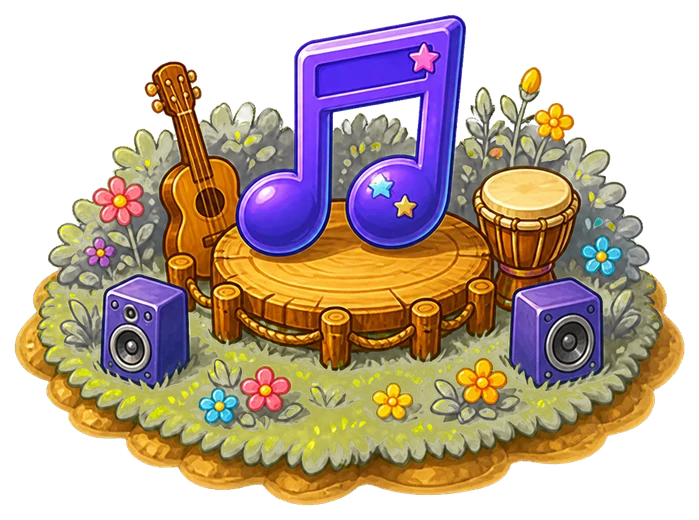
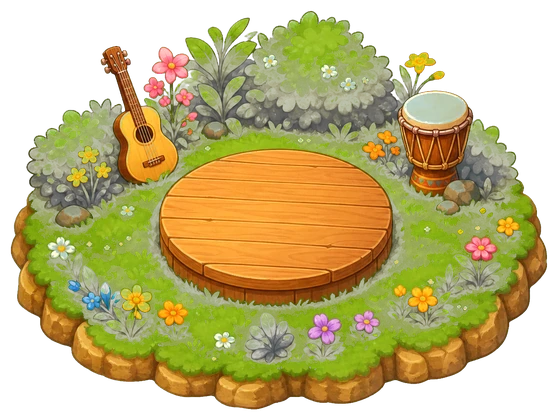
Use two-layer music island artwork

diff --git a/index.html b/index.html
@@ -203,51 +203,21 @@
       animation-duration: 3.2s;
     }
 
-    #summer-checkin-app .music-note-dancer,
-    #summer-checkin-app .music-speaker {
+    #summer-checkin-app .music-foreground {
       position: absolute;
       z-index: 4;
+      left: 53.8%;
+      top: 33.8%;
+      width: 13.6%;
+      aspect-ratio: 420 / 285;
       pointer-events: none;
       transform-origin: 50% 70%;
+      animation: music-foreground-dance 1.05s ease-in-out infinite;
+      filter: drop-shadow(0 4px 4px color-mix(in srgb, var(--foreground) 22%, transparent));
       will-change: transform, filter;
     }
 
-    #summer-checkin-app .music-note-dancer {
-      left: 53.8%;
-      top: 36.2%;
-      width: 8.8%;
-      aspect-ratio: 1;
-      display: grid;
-      place-items: center;
-      color: #7a3ff2;
-      font-size: clamp(34px, 5vw, 78px);
-      font-weight: 800;
-      text-shadow:
-        0 2px 0 #f6d8ff,
-        0 5px 8px color-mix(in srgb, var(--foreground) 22%, transparent);
-      animation: music-note-dance 1.05s ease-in-out infinite;
-    }
-
-    #summer-checkin-app .music-speaker {
-      width: 4.1%;
-      aspect-ratio: 109 / 145;
-      filter: drop-shadow(0 3px 3px color-mix(in srgb, var(--foreground) 18%, transparent));
-      animation: speaker-bounce .56s ease-in-out infinite alternate;
-    }
-
-    #summer-checkin-app .music-speaker.left {
-      left: 48.3%;
-      top: 41.8%;
-      animation-name: speaker-pulse-left;
-    }
-
-    #summer-checkin-app .music-speaker.right {
-      left: 58.8%;
-      top: 42%;
-      animation-name: speaker-pulse-right;
-    }
-
-    #summer-checkin-app .music-speaker img {
+    #summer-checkin-app .music-foreground img {
       display: block;
       width: 100%;
       height: 100%;
@@ -649,20 +619,10 @@
       100% { transform: rotate(2.7deg) translate(2px, 1px); }
     }
 
-    @keyframes music-note-dance {
-      0%, 100% { transform: translate(-50%, -50%) rotate(-5deg) scale(1); }
-      35% { transform: translate(-50%, -63%) rotate(7deg) scale(1.12); }
-      62% { transform: translate(-50%, -48%) rotate(-2deg) scale(.96); }
-    }
-
-    @keyframes speaker-pulse-left {
-      0% { transform: translate(-50%, -50%) rotate(-3deg) scale(1); }
-      100% { transform: translate(-58%, -53%) rotate(-7deg) scale(1.14, 1.08); }
-    }
-
-    @keyframes speaker-pulse-right {
-      0% { transform: translate(-50%, -50%) rotate(3deg) scale(1); }
-      100% { transform: translate(-42%, -53%) rotate(7deg) scale(1.14, 1.08); }
+    @keyframes music-foreground-dance {
+      0%, 100% { transform: translate(-50%, -50%) rotate(-2deg) scale(1); }
+      34% { transform: translate(-50%, -58%) rotate(4deg) scale(1.07); }
+      62% { transform: translate(-50%, -48%) rotate(-1deg) scale(.98); }
     }
 
     @media (max-width: 1050px) {
@@ -731,8 +691,7 @@
       #summer-checkin-app .star-pop::before,
       #summer-checkin-app .star-pop::after { animation-duration: .01ms; }
       #summer-checkin-app .wobble-piece,
-      #summer-checkin-app .music-note-dancer,
-      #summer-checkin-app .music-speaker { animation: none; }
+      #summer-checkin-app .music-foreground { animation: none; }
     }
   </style>
 
@@ -761,11 +720,9 @@
       <span class="wobble-piece" style="--left:68%;--top:34%;--width:32%;--height:42%;--duration:2.7s;--delay:-2.6s"><img src="assets/wobble-thinking.webp" alt="" aria-hidden="true"></span>
       <span class="wobble-piece" style="--left:28%;--top:62%;--width:34%;--height:38%;--duration:2.95s;--delay:-1.9s"><img src="assets/wobble-fun.webp" alt="" aria-hidden="true"></span>
       <span class="wobble-piece" style="--left:67%;--top:64%;--width:33%;--height:36%;--duration:2.68s;--delay:-.7s"><img src="assets/wobble-finish.webp" alt="" aria-hidden="true"></span>
-      <span class="wobble-piece music" style="--left:43%;--top:25%;--width:21%;--height:27%;--duration:2.4s;--delay:-1.1s"><img src="assets/wobble-music.webp" alt="" aria-hidden="true"></span>
-      <span class="wobble-piece mystery" style="--left:5%;--top:31%;--width:15%;--height:16%;--duration:3.2s;--delay:-.8s"><img src="assets/wobble-mystery.webp" alt="" aria-hidden="true"></span>
-      <span class="music-note-dancer" aria-hidden="true">♪</span>
-      <span class="music-speaker left" aria-hidden="true"><img src="assets/music-speaker-left.webp" alt=""></span>
-      <span class="music-speaker right" aria-hidden="true"><img src="assets/music-speaker-right.webp" alt=""></span>
+      <span class="wobble-piece music" style="--left:44.9%;--top:27.7%;--width:17.2%;--height:21.6%;--duration:2.4s;--delay:-1.1s"><img src="assets/wobble-music.webp" alt="" aria-hidden="true"></span>
+      <span class="wobble-piece mystery" style="--left:2%;--top:38%;--width:15%;--height:16%;--duration:3.2s;--delay:-.8s"><img src="assets/wobble-mystery.webp" alt="" aria-hidden="true"></span>
+      <span class="music-foreground" aria-hidden="true"><img src="assets/music-foreground.webp" alt=""></span>
 
       <button class="scenery-hotspot" style="--x:6%;--y:10%;--w:10%;--h:15%" data-scene="sun" aria-label="点击太阳，听一句英文夸奖"></button>
       <button class="scenery-hotspot" style="--x:18%;--y:12%;--w:9%;--h:9%" data-scene="seagull" aria-label="点击海鸥，播放海鸥叫声"></button>
@@ -774,8 +731,8 @@
       <button class="scenery-hotspot" style="--x:94%;--y:40%;--w:9%;--h:13%" data-scene="dolphin" aria-label="点击海豚，播放海豚叫声"></button>
       <button class="scenery-hotspot" style="--x:23%;--y:87%;--w:10%;--h:12%" data-scene="dolphin" aria-label="点击海豚，播放海豚叫声"></button>
       <button class="scenery-hotspot" style="--x:94%;--y:70%;--w:11%;--h:17%" data-scene="fireworks" aria-label="点击烟花，播放烟花爆炸声"></button>
-      <button class="scenery-hotspot music-hotspot" style="--x:53.5%;--y:38%;--w:17%;--h:20%" data-music-control aria-label="点击音乐岛，播放或切换背景音乐"></button>
-      <button class="scenery-hotspot" style="--x:12.5%;--y:39%;--w:12%;--h:12%" data-mystery-bonus aria-label="点击神秘岛，获得一次彩蛋打卡"></button>
+      <button class="scenery-hotspot music-hotspot" style="--x:53.5%;--y:38%;--w:14%;--h:17%" data-music-control aria-label="点击音乐岛，播放或切换背景音乐"></button>
+      <button class="scenery-hotspot" style="--x:9.5%;--y:46%;--w:12%;--h:12%" data-mystery-bonus aria-label="点击神秘岛，获得一次彩蛋打卡"></button>
 
       <button class="hotspot" style="--x:34%;--y:18%" data-task="sport" aria-label="体育打卡，运动岛前进一步"></button>
       <button class="hotspot" style="--x:59%;--y:18%" data-task="english" aria-label="英语打卡，英语湾前进一步"></button>

diff --git a/src/summer-adventure-checkin.html b/src/summer-adventure-checkin.html
@@ -114,51 +114,21 @@
       animation-duration: 3.2s;
     }
 
-    #summer-checkin-app .music-note-dancer,
-    #summer-checkin-app .music-speaker {
+    #summer-checkin-app .music-foreground {
       position: absolute;
       z-index: 4;
+      left: 53.8%;
+      top: 33.8%;
+      width: 13.6%;
+      aspect-ratio: 420 / 285;
       pointer-events: none;
       transform-origin: 50% 70%;
+      animation: music-foreground-dance 1.05s ease-in-out infinite;
+      filter: drop-shadow(0 4px 4px color-mix(in srgb, var(--foreground) 22%, transparent));
       will-change: transform, filter;
     }
 
-    #summer-checkin-app .music-note-dancer {
-      left: 53.8%;
-      top: 36.2%;
-      width: 8.8%;
-      aspect-ratio: 1;
-      display: grid;
-      place-items: center;
-      color: #7a3ff2;
-      font-size: clamp(34px, 5vw, 78px);
-      font-weight: 800;
-      text-shadow:
-        0 2px 0 #f6d8ff,
-        0 5px 8px color-mix(in srgb, var(--foreground) 22%, transparent);
-      animation: music-note-dance 1.05s ease-in-out infinite;
-    }
-
-    #summer-checkin-app .music-speaker {
-      width: 4.1%;
-      aspect-ratio: 109 / 145;
-      filter: drop-shadow(0 3px 3px color-mix(in srgb, var(--foreground) 18%, transparent));
-      animation: speaker-bounce .56s ease-in-out infinite alternate;
-    }
-
-    #summer-checkin-app .music-speaker.left {
-      left: 48.3%;
-      top: 41.8%;
-      animation-name: speaker-pulse-left;
-    }
-
-    #summer-checkin-app .music-speaker.right {
-      left: 58.8%;
-      top: 42%;
-      animation-name: speaker-pulse-right;
-    }
-
-    #summer-checkin-app .music-speaker img {
+    #summer-checkin-app .music-foreground img {
       display: block;
       width: 100%;
       height: 100%;
@@ -560,20 +530,10 @@
       100% { transform: rotate(2.7deg) translate(2px, 1px); }
     }
 
-    @keyframes music-note-dance {
-      0%, 100% { transform: translate(-50%, -50%) rotate(-5deg) scale(1); }
-      35% { transform: translate(-50%, -63%) rotate(7deg) scale(1.12); }
-      62% { transform: translate(-50%, -48%) rotate(-2deg) scale(.96); }
-    }
-
-    @keyframes speaker-pulse-left {
-      0% { transform: translate(-50%, -50%) rotate(-3deg) scale(1); }
-      100% { transform: translate(-58%, -53%) rotate(-7deg) scale(1.14, 1.08); }
-    }
-
-    @keyframes speaker-pulse-right {
-      0% { transform: translate(-50%, -50%) rotate(3deg) scale(1); }
-      100% { transform: translate(-42%, -53%) rotate(7deg) scale(1.14, 1.08); }
+    @keyframes music-foreground-dance {
+      0%, 100% { transform: translate(-50%, -50%) rotate(-2deg) scale(1); }
+      34% { transform: translate(-50%, -58%) rotate(4deg) scale(1.07); }
+      62% { transform: translate(-50%, -48%) rotate(-1deg) scale(.98); }
     }
 
     @media (max-width: 1050px) {
@@ -642,8 +602,7 @@
       #summer-checkin-app .star-pop::before,
       #summer-checkin-app .star-pop::after { animation-duration: .01ms; }
       #summer-checkin-app .wobble-piece,
-      #summer-checkin-app .music-note-dancer,
-      #summer-checkin-app .music-speaker { animation: none; }
+      #summer-checkin-app .music-foreground { animation: none; }
     }
   </style>
 
@@ -672,11 +631,9 @@
       <span class="wobble-piece" style="--left:68%;--top:34%;--width:32%;--height:42%;--duration:2.7s;--delay:-2.6s"><img src="assets/wobble-thinking.webp" alt="" aria-hidden="true"></span>
       <span class="wobble-piece" style="--left:28%;--top:62%;--width:34%;--height:38%;--duration:2.95s;--delay:-1.9s"><img src="assets/wobble-fun.webp" alt="" aria-hidden="true"></span>
       <span class="wobble-piece" style="--left:67%;--top:64%;--width:33%;--height:36%;--duration:2.68s;--delay:-.7s"><img src="assets/wobble-finish.webp" alt="" aria-hidden="true"></span>
-      <span class="wobble-piece music" style="--left:43%;--top:25%;--width:21%;--height:27%;--duration:2.4s;--delay:-1.1s"><img src="assets/wobble-music.webp" alt="" aria-hidden="true"></span>
-      <span class="wobble-piece mystery" style="--left:5%;--top:31%;--width:15%;--height:16%;--duration:3.2s;--delay:-.8s"><img src="assets/wobble-mystery.webp" alt="" aria-hidden="true"></span>
-      <span class="music-note-dancer" aria-hidden="true">♪</span>
-      <span class="music-speaker left" aria-hidden="true"><img src="assets/music-speaker-left.webp" alt=""></span>
-      <span class="music-speaker right" aria-hidden="true"><img src="assets/music-speaker-right.webp" alt=""></span>
+      <span class="wobble-piece music" style="--left:44.9%;--top:27.7%;--width:17.2%;--height:21.6%;--duration:2.4s;--delay:-1.1s"><img src="assets/wobble-music.webp" alt="" aria-hidden="true"></span>
+      <span class="wobble-piece mystery" style="--left:2%;--top:38%;--width:15%;--height:16%;--duration:3.2s;--delay:-.8s"><img src="assets/wobble-mystery.webp" alt="" aria-hidden="true"></span>
+      <span class="music-foreground" aria-hidden="true"><img src="assets/music-foreground.webp" alt=""></span>
 
       <button class="scenery-hotspot" style="--x:6%;--y:10%;--w:10%;--h:15%" data-scene="sun" aria-label="点击太阳，听一句英文夸奖"></button>
       <button class="scenery-hotspot" style="--x:18%;--y:12%;--w:9%;--h:9%" data-scene="seagull" aria-label="点击海鸥，播放海鸥叫声"></button>
@@ -685,8 +642,8 @@
       <button class="scenery-hotspot" style="--x:94%;--y:40%;--w:9%;--h:13%" data-scene="dolphin" aria-label="点击海豚，播放海豚叫声"></button>
       <button class="scenery-hotspot" style="--x:23%;--y:87%;--w:10%;--h:12%" data-scene="dolphin" aria-label="点击海豚，播放海豚叫声"></button>
       <button class="scenery-hotspot" style="--x:94%;--y:70%;--w:11%;--h:17%" data-scene="fireworks" aria-label="点击烟花，播放烟花爆炸声"></button>
-      <button class="scenery-hotspot music-hotspot" style="--x:53.5%;--y:38%;--w:17%;--h:20%" data-music-control aria-label="点击音乐岛，播放或切换背景音乐"></button>
-      <button class="scenery-hotspot" style="--x:12.5%;--y:39%;--w:12%;--h:12%" data-mystery-bonus aria-label="点击神秘岛，获得一次彩蛋打卡"></button>
+      <button class="scenery-hotspot music-hotspot" style="--x:53.5%;--y:38%;--w:14%;--h:17%" data-music-control aria-label="点击音乐岛，播放或切换背景音乐"></button>
+      <button class="scenery-hotspot" style="--x:9.5%;--y:46%;--w:12%;--h:12%" data-mystery-bonus aria-label="点击神秘岛，获得一次彩蛋打卡"></button>
 
       <button class="hotspot" style="--x:34%;--y:18%" data-task="sport" aria-label="体育打卡，运动岛前进一步"></button>
       <button class="hotspot" style="--x:59%;--y:18%" data-task="english" aria-label="英语打卡，英语湾前进一步"></button>

diff --git a/service-worker.js b/service-worker.js
@@ -1,4 +1,4 @@
-const APP_CACHE = 'summer-adventure-pwa-v1784532158743';
+const APP_CACHE = 'summer-adventure-pwa-v1784538546381';
 const MEDIA_CACHE = 'summer-adventure-media-v1';
 const SHELL_ASSETS = [
   "./",
@@ -17,8 +17,7 @@ const SHELL_ASSETS = [
   "./assets/wobble-finish.webp",
   "./assets/wobble-music.webp",
   "./assets/wobble-mystery.webp",
-  "./assets/music-speaker-left.webp",
-  "./assets/music-speaker-right.webp",
+  "./assets/music-foreground.webp",
   "./assets/real-dolphin.wav",
   "./assets/real-seagull.mp3",
   "./assets/real-ship-horn.mp3"
